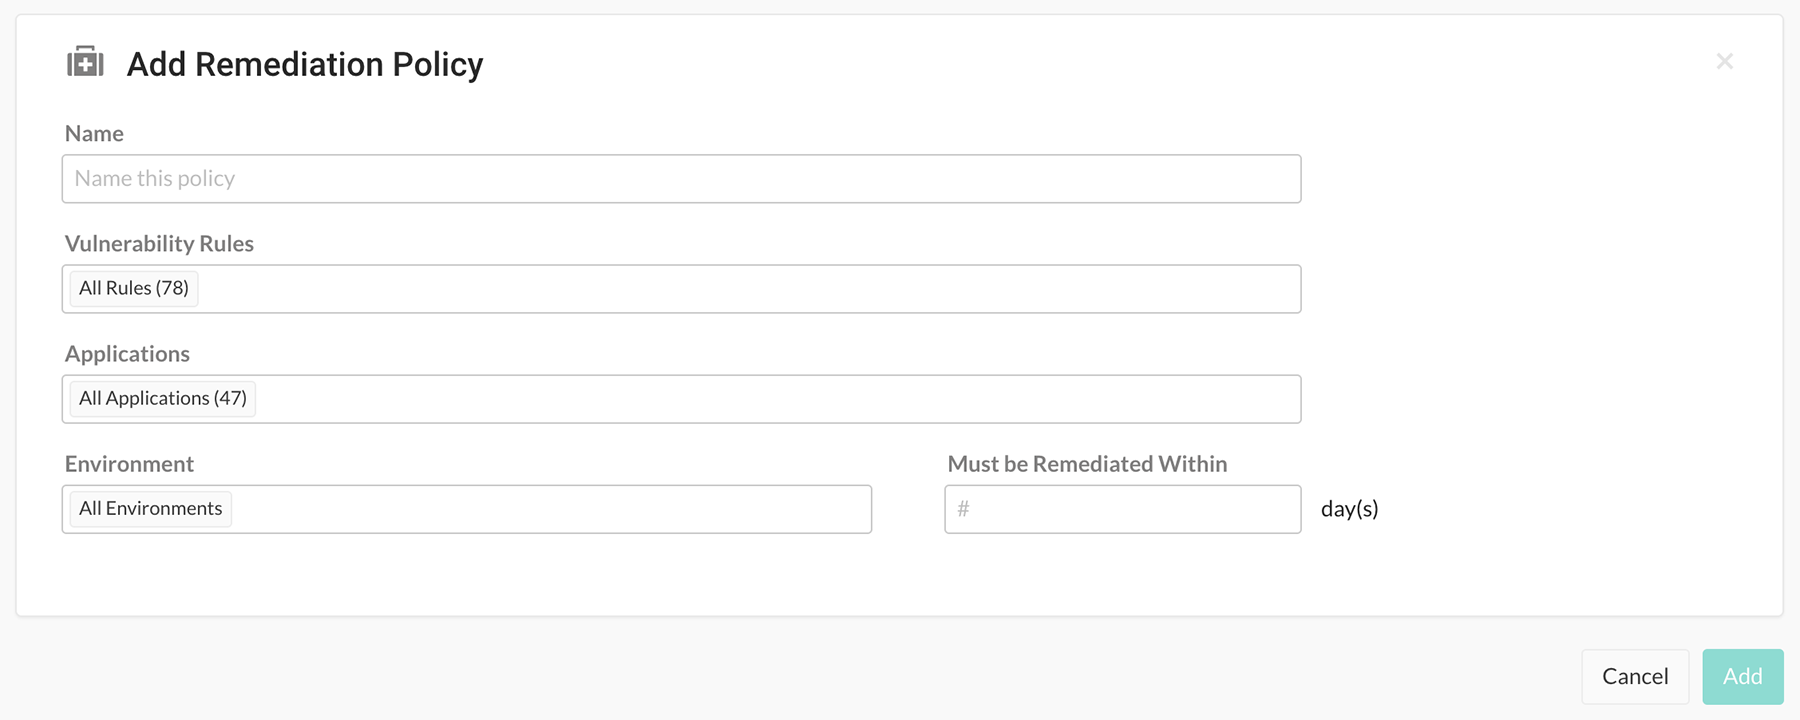
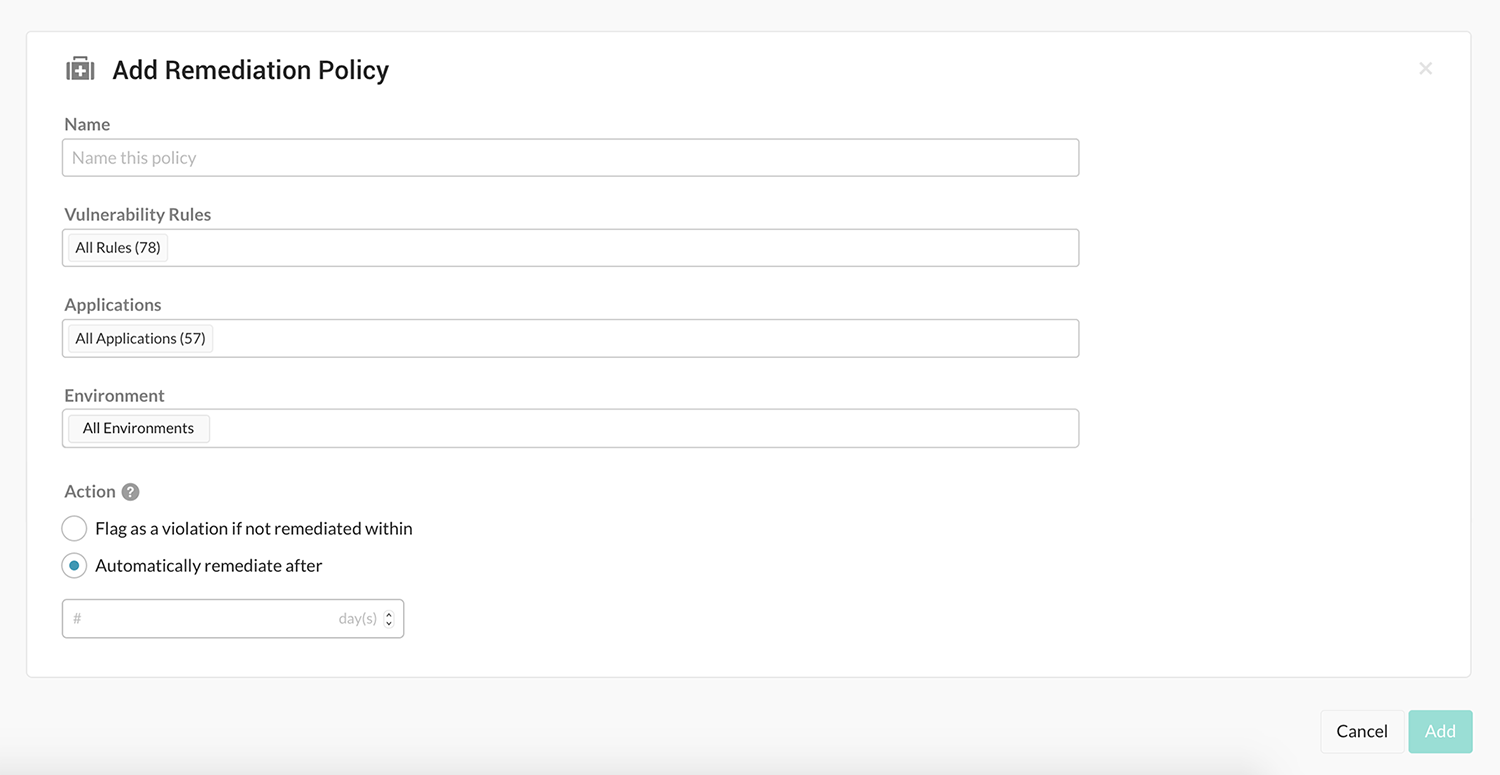
added actions section and replaced image

diff --git a/content/admin/policy_mgmt/RemediationPolicy.md b/content/admin/policy_mgmt/RemediationPolicy.md
@@ -9,22 +9,29 @@ As Contrast assesses your applications, it can flag vulnerabilities that don't m
 
 ## How It Works 
 
-Administrators can define requirements for vulnerability remediation based on any vulnerability type or severity as well as any application(s) which should comply. Contrast then marks any vulnerabilities in violation of this policy with a warning in the interface. (Administrators are also notified of violations both in the product and by email.)
+Administrators can define requirements for vulnerability remediation based on any vulnerability type or severity as well as any application(s) which should comply. Contrast then marks any vulnerabilities in violation of this policy with a warning in the interface or changes the vulnerability's status in the Vulnerability page grid when auto-remediated. (Administrators are also notified of violations or auto-remediations both in the product and by email.)
 
 ## Set Up Policies
 
 Go to the **User menu > Policy Management > Remediation Policy tab** to create new policies and view existing ones in the grid.
 
-
 <a href="assets/images/Remediation-policy.png" rel="lightbox" title="Remediation Policy grid"><img class="thumbnail" src="assets/images/Remediation-policy.png"/></a>
 
 ### Add policies 
 
-To create a new policy, click the **Add Policy** button. In the **Add Remediation Policy** form, choose a name for the policy, and click in the multiselect fields to choose the vulnerability rules, applications and environments to which Contrast should apply the policy. You can add multiple vulnerabilities by Severity or select individual names. You can also add multiple applications by Importance or select individual names. Enter the maximum number of days that these vulnerabilities can exist in order to comply with the policy. 
-
+To create a new policy, click the **Add Policy** button. In the **Add Remediation Policy** form, choose a **Name** for the policy, and click in the multiselect fields to choose the **Vulnerability Rules**, **Applications** and **Environments** to which Contrast should apply the policy. You can add multiple vulnerabilities by Severity or select individual names. You can also add multiple applications by Importance or select individual names. 
 
 <a href="assets/images/Add-remediation-policy.png" rel="lightbox" title="Add Remediation Policy"><img class="thumbnail" src="assets/images/Add-remediation-policy.png"/></a>
 
+#### Automatic actions
+
+In the **Action** section, use the radio buttons and corresponding number control fields to either **flag vulnerabilities as a violation** or **automatically remediate** them within a given number of days. If multiple policies or actions apply to the same vulnerability, the following rules apply: 
+
+* The most severe action (i.e. the action with the closest deadline) applies first. 
+* If a violation deadline applies first, the vulnerability is flagged then auto-remediated when the later deadline applies. 
+* If an auto-remediation deadline applies first, the vulnerability is closed and never flagged. 
+
+If Contrast rediscovers a legitimate vulnerability that was automatically remediated, Contrast will report the vulnerability as usual. 
 
 ### Edit policies 
 
@@ -32,5 +39,5 @@ Click the name of an existing policy in the grid to see more details and update 
 
 ## Policy Violations
 
-If a vulnerability isn't remediated within the given number of days, Contrast adds a warning note to the Vulnerabilities thermometer in the Dashboard and flags the vulnerabilities in the Vulnerabilities grid. Hover over the warning icon for each vulnerability in the grid or go to the vulnerability details page for more information about the violation.
+If a vulnerability isn't remediated within the given number of days, Contrast adds a warning note to the Vulnerabilities thermometer in the dashboard and flags the vulnerabilities in the Vulnerabilities grid. Hover over the warning icon for each vulnerability in the grid or go to the vulnerability details page for more information about the violation.
 
